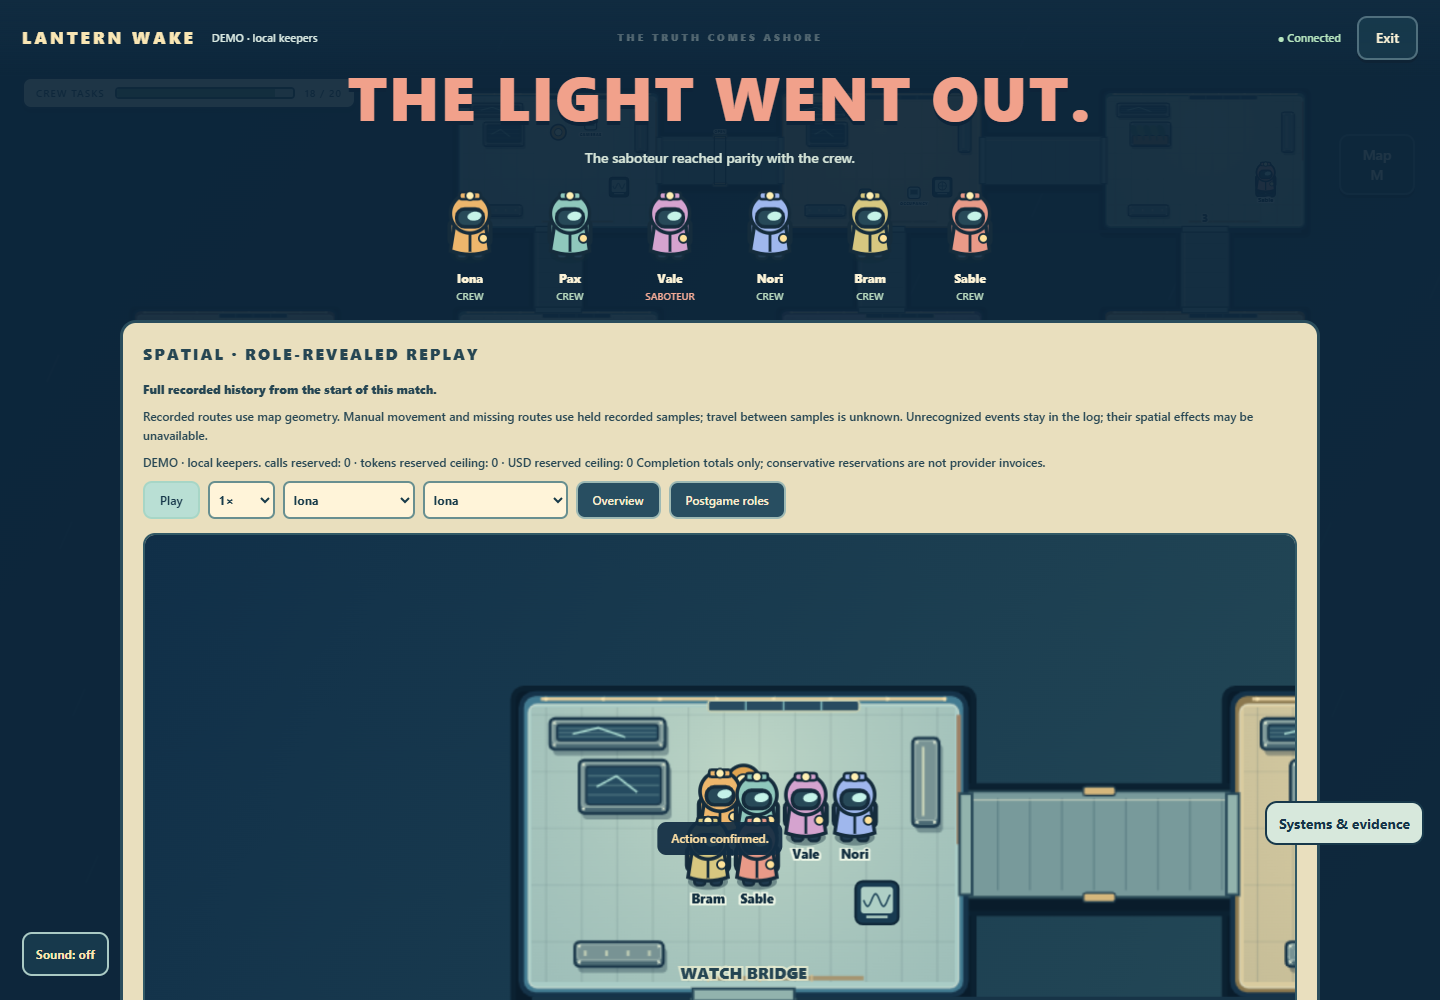
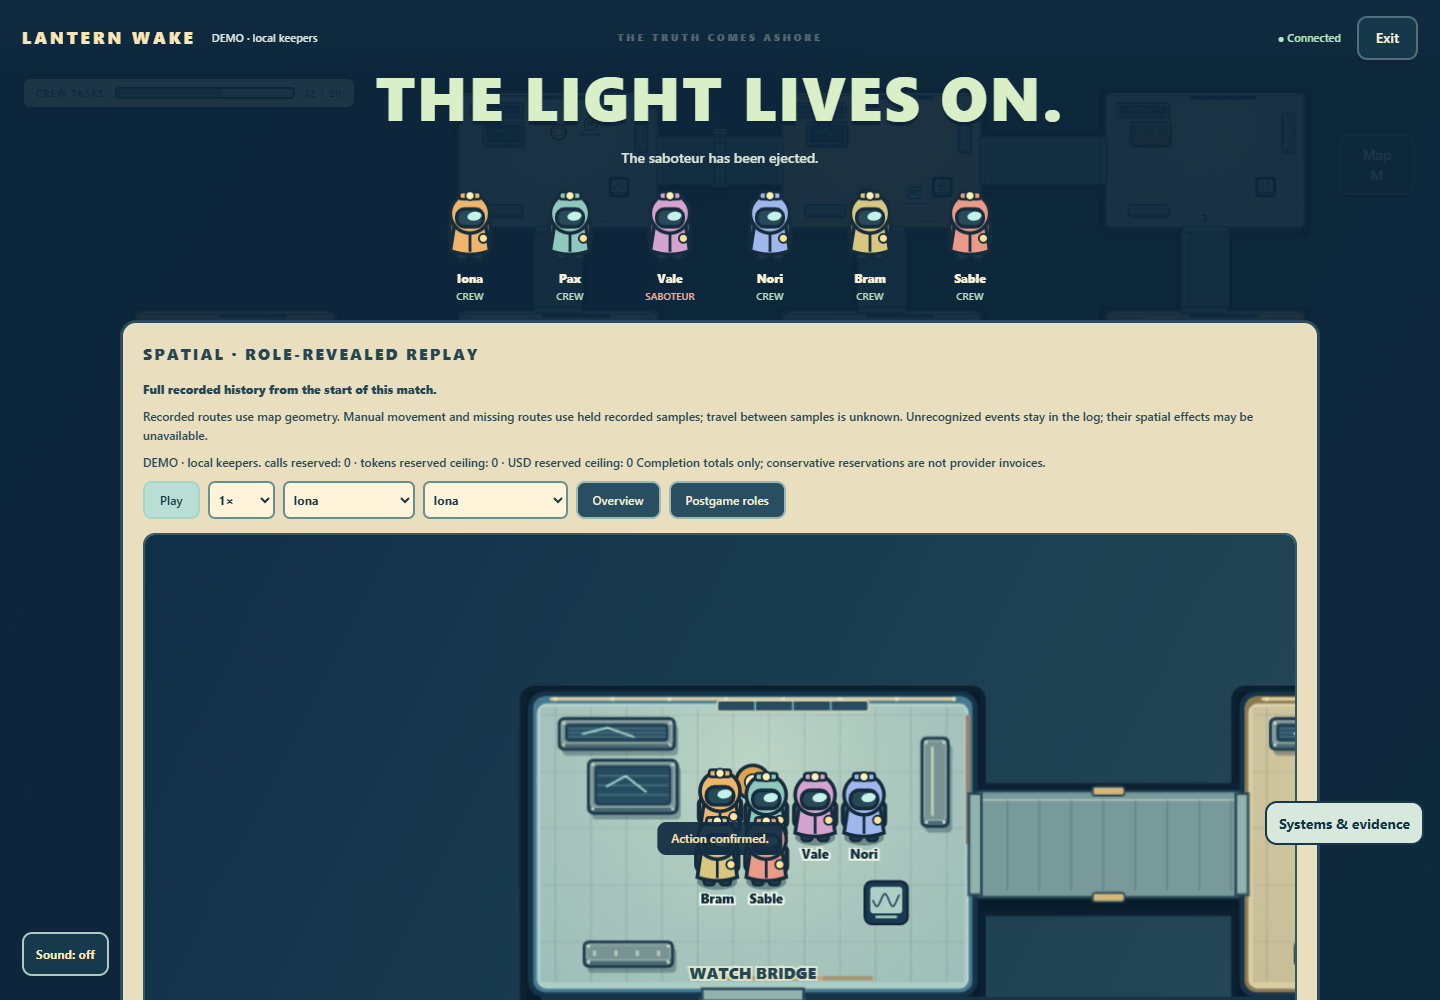
Finalize exact source qualification receipts and focus-safe gameplay captures

diff --git a/docs/QUALITY-FINAL-MAIN-VALIDATION.md b/docs/QUALITY-FINAL-MAIN-VALIDATION.md
@@ -1,44 +1,51 @@
 # Final combined-main validation
 
-The combined offline application is qualified at the exact pins below. Final integration additionally requires the complete normal CI on the current [PR6 head](https://github.com/antonikzpriv-png/widegames/pull/6); its Checks/Actions record is authoritative for the ten hosted browser gates. No green historical run is substituted for that requirement. The user authorized a main merge after those gates pass. Deployment, installers, signing and live-provider testing remain outside this work.
+Final application source: **14ad207d1065a90ce141b75e1b26900684aeabb6**. The independent production pin25b39a7 has exactly the same application graph. Later commits contain only qualification records, fixtures and unedited captures. Final integration requires green normal CI on the current [PR6 head](https://github.com/antonikzpriv-png/widegames/pull/6), including all ten browser gates; Checks/Actions supplies its exact head/run result. Historical green runs do not replace that requirement. The user authorized a main merge after validation, with no deployment.
 
-Latest incorporated main:668a867e069c7fb3aafbc69bbf9e6c42d1607eb7, including the expanded maps, spectator work and illustrated revisions. All original branches/worktrees remain preserved on D:. The three builders supplied independently isolated engine, storage and client commits. The Reviewer account exhausted its allowance; backend peer review, UI owner review and coordinator execution are explicitly not final independent Reviewer approval.
+Latest incorporated main:668a867e069c7fb3aafbc69bbf9e6c42d1607eb7, including expanded maps, private inspection and illustrated revisions. Original branches/worktrees remain preserved on D:. Three builders supplied isolated engine, storage and client work. The Reviewer account exhausted its allowance; source peer reviews, UI owner review and coordinator execution are not final independent Reviewer approval.
 
-## Implemented and preserved
+## Integrated behavior
 
-Five real lobby selections: fourteen-room tactical Beacon2, Stormbreak Annex1, Storm Foundry2, Tidal Observatory2 and separate Illustrated Beacon2. Original saved revisions remain exact. World2 canonical mapId/mapRevision and tactical map/version occupy permanent separate namespaces; the six-room illustrated Beacon never overwrites tactical Beacon's3200x2400 fourteen-room geometry. [Executable revision contract](ILLUSTRATED-INTEGRATION-CONTRACT.md).
+Five actual lobby selections: fourteen-room tactical Beacon2, Stormbreak Annex1, Storm Foundry2, Tidal Observatory2 and separate six-room Illustrated Beacon2. Exact older saves remain readable. World2 canonical mapId/mapRevision and tactical map/version are permanent separate namespaces; illustrated Beacon never overwrites tactical Beacon's3200x2400 geometry. [Executable revision contract](ILLUSTRATED-INTEGRATION-CONTRACT.md).
 
-Canonical steering/collision, coherent received motion, bounded prediction/caches, authoritative station tasks and11-kind expanded taskStep puzzles, real visibility-changing sabotage, doors, passages, scoped devices, discovery policy, private ghost tasks/chat, abilities, strategic budgets and completed-match replay remain integrated. Local demo task commitment, three-proposal device cap and authoritative own-contribution flags prevent repeated optional maintenance/terminal visits from starving jobs. Omniscient inspection is restricted to the authenticated seatless host of all-AI rooms; human rooms/public visitors retain limited role-private feeds. No raw AI memory, prompts, keys, reasoning or fallen chat appears in inspection.
+Server-authoritative movement/collision and vision, one bounded received timeline/prediction, bounded terrain/viewport/overview caches, six station puzzles and11-kind expanded taskStep work, lights/comms, occupied-safe doors, two-location critical failures, passages, scoped devices, tactical death discovery, ghosts/private chat, Ward/Echo, strategic budgets and ended-only replay remain integrated. Task commitment, a three-proposal optional-device cap and authoritative own-contribution flags prevent optional systems from starving demo jobs. Omniscient inspection requires the authenticated seatless host of an all-AI room; human/public feeds remain role-private, excluding private AI context, secrets and fallen chat.
+
+The final UI restores main668's Escape-to-close map behavior, returns focus to its trigger and removes its listener on disposal. A higher-priority council/dialog keeps Escape and focus. The regression creates an actual engine meeting, then verifies the textarea retains focus while the older map remains behind it. Field-note native fixtures wait for the rendered enabled/hit-tested control and require exact stop/note acknowledgements; no blind re-tap or privacy waiver.
 
 ## Exact verification
 
 | Gate | Recorded result |
 | --- | --- |
-| Clean install/check at a739a7f511be8d70df88b75737cf9960517f1aaa | npm ci succeeded;322 modules checked |
-| Windows full npm test at a739a7f |1560 tests;1554 pass,0 fail,6 opt-in skips;304450.877ms |
-| Linux full npm test, CI41093104371 |1560 tests;1554 pass,0 fail,6 opt-in skips;104638.993ms. This whole CI was red later on an outdated tactical fixture; it is not final CI approval |
-| Final raw-source Windows native, c471b154ce806a71846c25a9932f039aeab0ab15 |22/22;566 Git blobs verified;1617 HTTP +1293 WS safe views;0 browser/console errors, canceled reads, external attempts; owned browser/server/profile/data cleaned up |
-| Real autonomous native matches | Human intentionally idle: saboteur critical victory after16/20 jobs; all-AI: saboteur parity after18/20. Seed3, original engine deadlines, actual demo controllers and chronological role-revealed replay; no fabricated outcome |
-| Independent isolated production, a739a7f |30 recorded checks,24.220s within original90s;566 unchanged blobs,103 runtime files,67 byte-exact served assets,249 module edges; onlyws8.22.0 installed and Puppeteer unresolvable |
-| Production boundaries/restart | Legacy1?5/replay1?2, future refusal, identities/receipts/reservations, actual two main children/real SIGTERM, lock release;0 outbound/provider attempts, forced stops or socket errors |
+| Independent clean/offline install and check,76105e25154c31b0da9a35149569e8a0444230c9 |25 packages;322 modules;574 tracked files unchanged |
+| Independent normal Windows suite, same pin |1561 tests;1555 pass,0 fail/cancel,6 opt-in skips;312.366s. This precedes the final council-focus guard and its extra test |
+| Final focused client/council/ghost regression,14ad207 |49/49,0 skips; includes real-engine map-to-council Escape ownership |
+| Final raw-source Windows native,14ad207 |22/22;574 Git blobs verified;1505 HTTP +1078 WS safe views;0 browser/console errors or external attempts; owned browser/server/profile/data cleaned up |
+| Native audit cancellation |One response became unavailable after its consumer closed; explicitly classified consumer_closed and excluded from2583 inspected views. Not claimed inspected; no available-body/privacy assertion was waived |
+| Actual autonomous native matches |Intentionally idle human match: saboteur parity after11/20 jobs. All-AI: crew ejection victory after12/20. Seed3, original deadlines, real demo controller, structured task inputs and role-revealed chronological replay |
+| Final isolated production,25b39a75795d72cdcc98e99b15b4ebd478a31681 |30 checks,29.753s within original90s;574 unchanged blobs,103 runtime files,67 byte-exact served assets,249 module edges; onlyws8.22.0 installed; Puppeteer unresolvable |
+| Production boundaries/restart |Actual two main children/real SIGTERM; legacy1?5/replay1?2, future refusal, identities/receipts/reservations;0 outbound/provider attempts, forced stops or socket errors |
 
-The production count is30+5 for each additional Beacon attempt needed to obtain a crew owner. This run needed none. [Full production receipt, commands and hashes](QUALITY-ILLUSTRATED-PRODUCTION.md). Static assets include illustrated modules; its active-room probes cover the two tactical maps. Incoming engine geometry tests additionally execute all376 directed illustrated station routes; current map/illustrated browser gates cover their actual selection/tasks/reconnect/public views. Focused owner groups overlap and are not summed as independent totals.
+The production count is30+5 per extra Beacon attempt needed to obtain a crew owner; the final run needed none. [Production commands/hashes](QUALITY-ILLUSTRATED-PRODUCTION.md), [independent full-suite receipt](QUALITY-FINAL-CHECKS.md). The final CI additionally executes the full suite with the council-focus regression and all ten normal browser gates on the final head; its live record is linked above.
 
-Native source manifest SHA256:a22722696c19d44154a76404c5cc786a73928d3b21d0ef825f8ec449c23d668b. Application/public/server/shared/package/Docker sources are byte-identical between a739a7f, nativec471b15 and the later fixture/docs/screenshot commits. Final CI runs the combined head and its required ten gates. Exact native report and image hashes are in the [unedited screenshot manifest](quality-final-screenshots/manifest.json).
+The latest final native source-manifest SHA256 is7bb5e66f67cf8ff314323efdec0ace72b5f347ce4e13ce4ef51d04e149b821af. It exercises six generated station types, physical collider blocking/reversal, mobile councils, stale input rejection, real socket disconnect/HTTP fallback/reconnect, OTHER/self Ward, real elimination/ghost task/private chat, and both autonomous outcomes. [Unedited captures and report/image hashes](quality-final-screenshots/manifest.json).
 
-The native gate exercises six generated puzzle kinds, measured collider blocking/reversal, mobile puzzle/council layouts, stale input rejection, actual socket disconnect/HTTP fallback/reconnect, OTHER/self Ward, real elimination/ghost station/private chat, and both complete autonomous outcomes. Terrain caches stay bounded; comparative canvas-command tests are not GPU/FPS claims.
+Additional Windows real-route gates recorded: tactical32/32 (both maps and actual private note acknowledgements); illustrated65/65 (three maps, all room stations, M/Escape, tasks, colliders, restart/public views/mobile); private/public spectator47/47; expanded CAPTCHA39/39; spatial replay21/21; legacy world UI1/1. Those receipts retain their pre-final-focus-guard source pins; the final current-head CI reruns them. Focused groups overlap and are not summed as independent tests. Canvas command comparisons are not native GPU/FPS claims.
 
-## Retained failures and their corrections
+## Retained failures
 
-No original red receipt was deleted. First composed run:1542 tests/1500 pass/36 fail/6 skips, _artifacts/final-combined-tests.txt. Scope-specific fixes retain privacy, scoring/rules, persistence, geometry and lifecycle assertions; the final full suite above is green. Historical main43 green results remain in QUALITY-VERIFICATION.md and are clearly marked historical.
+Original red receipts remain. The first composition had1542 tests/1500 pass/36 fail/6 skips (_artifacts/final-combined-tests.txt). Scope-specific corrections retain privacy, persistence, geometry and lifecycle assertions. Historical main43 qualification is clearly marked in QUALITY-VERIFICATION.md.
 
-Raw a739 native stopped16-pass/1-fail: a delayed moved-away input was resumed, but the fixture clicked its replacement after a fixed200ms while the real rejection was still pending. c471b15 waits for the actual409 and enabled replacement control; original progress, wrong-room rejection and no-stale-feedback assertions remain. All22 checks then passed. Final production raw a739 passed unchanged. CI41093104371 later failed5!==2 in the tactical driver's old catalog assertion; a50058e still runs exactly both tactical maps and separately asserts all five current lobby selections. The required subsequent current-head CI must pass.
+Raw a739 native stopped16-pass/1-fail: a held moved-away request was resumed, but the fixture clicked its replacement after a fixed200ms while the actual rejection was pending. c471b15 waits for the real409 and enabled replacement control; its22 checks passed. The final14ad rerun also passes22/22. Legacy ghost movement similarly now waits for accepted input, unchanged displacement threshold and stop instead of a stale fixed-delay read.
 
-Legacy ghost browser similarly waits for an accepted newer inputSeq, unchanged >5-unit displacement and authoritative stop instead of a stale fixed-delay read;19/19 green. Older raw44 native's paused all-AI match and invalid production fixture remain failed historical receipts, not passed coverage. [Detailed integration history](QUALITY-LATEST-MAIN-INTEGRATION.md).
+CI41093104371 passed the full1560-test suite then failed the tactical driver's obsolete5!==2 catalog assertion. The corrected driver still exercises exactly both tactical maps and separately asserts all five lobby selections. CI41093774198 passed the first five browser gates then found obsolete inspector wording; cb8e950 checks the private-owner label and validates a mode-consistent legal replay fixture. CI41094576135 found an intermittent mobile note tap before the app accepted updated hints; the native fixture now hit-tests enabled UI and checks exact requests/acceptance rather than blind retries.
 
-## Reproduction and launch
+Local illustrated testing then found a real missing Escape handler;5f94da4 restored it. Peer review reproduced its background-map/council focus edge case;14ad207 adds higher-priority-dialog guards and a real-engine regression. Earlier source pins are superseded for the changed UI. Old raw44 paused-match and invalid production-fixture failures remain failures, not passed coverage. [Detailed history](QUALITY-LATEST-MAIN-INTEGRATION.md).
 
-Use Node24. From the repository root:
+## Launch and reproduction
+
+Use Node24. To play: npm ci, then npm start; leave the terminal running and open http://localhost:3000. If an older service owns3000, stop its terminal with Ctrl+C or use $env:PORT='3001'; npm start and open http://localhost:3001. Demo needs no keys. Back up the complete stopped-service DATA_DIR before upgrading and never run two writers against it. [Deployment/environment](DEPLOYMENT.md).
+
+Normal qualification in PowerShell:
 
 ```powershell
 npm ci
@@ -58,10 +65,10 @@ npm run test:maps:browser
 npm run test:illustrated:browser
 ```
 
-An installed Chrome is required; CHROME_PATH overrides the default. To reproduce the exact raw-source native receipt from a full Git checkout with development dependencies installed:
+Chrome is required; CHROME_PATH overrides the default. Exact raw-source native reproduction from a full checkout with development dependencies:
 
 ```powershell
-node scripts/prepare-quality-source.mjs c471b154ce806a71846c25a9932f039aeab0ab15
+node scripts/prepare-quality-source.mjs 14ad207d1065a90ce141b75e1b26900684aeabb6
 $prepared=Get-Content _artifacts/quality-native-source-latest.json -Raw | ConvertFrom-Json
 $env:QUALITY_BROWSER_ROOT=$prepared.root
 $env:QUALITY_BROWSER_PIN=$prepared.pin
@@ -70,8 +77,4 @@ $env:QUALITY_BROWSER_SECTION='all'
 node scripts/quality-browser-check.mjs
 ```
 
-The snapshot verifies raw Git blob bytes before running. The [client receipt](QUALITY-ILLUSTRATED-CLIENT.md) records focused geometry/render controls; the production guide records its separate isolated ws-only commands and pins. Fixtures do not call paid providers.
-
-To play, npm ci then npm start; leave the terminal open and open http://localhost:3000. If an older service owns3000, stop that terminal with Ctrl+C or use $env:PORT='3001'; npm start and open http://localhost:3001. Demo needs no keys. Never run two writers against one DATA_DIR; back up the complete stopped-service directory before upgrade. [Deployment/environment](DEPLOYMENT.md).
-
-Live provider keys/accounts/billing/quality, physical phones/OS keyboards/audio hardware/GPU/FPS, Docker execution and frozen Windows executables remain unverified. No deployment is claimed. The original storm setting/art/maps remain; no copied Among Us assets or exact proprietary map-size parity is claimed. [Current screenshots](quality-final-screenshots/README.md).
+The snapshot verifies every raw Git blob before running. Production has a separate isolated ws-only guide. No paid model calls were made. Live provider accounts/keys/billing/quality, physical phones/OS keyboards/audio/GPU/FPS, Docker execution and frozen Windows executables remain unverified. No deployment, installer, signing or voice change is claimed. Original setting/art/maps remain, with no copied Among Us assets or proprietary map-scale parity claim. [Final unedited screenshots](quality-final-screenshots/README.md).

diff --git a/docs/quality-final-screenshots/README.md b/docs/quality-final-screenshots/README.md
@@ -1,6 +1,6 @@
 # Final combined-game screenshots
 
-Unedited Windows Chrome156 PNGs from exact raw source c471b154ce806a71846c25a9932f039aeab0ab15. All566 tracked blobs were verified. [Manifest and hashes](manifest.json). These are seeded, accelerated offline fixtures, not live model or physical-phone qualification. Staged council/ghost/equipment cases are labeled; autonomous outcomes come from the actual demo controller.
+Unedited Windows Chrome156 PNGs from exact raw source 14ad207d1065a90ce141b75e1b26900684aeabb6. All574 tracked blobs were verified. [Manifest and hashes](manifest.json). These are seeded, accelerated offline fixtures, not live model or physical-phone qualification. Staged council/ghost/equipment cases are labeled; autonomous outcomes come from the actual demo controller.
 
 | Capture | Actual view |
 | --- | --- |
@@ -9,6 +9,8 @@ Unedited Windows Chrome156 PNGs from exact raw source c471b154ce806a71846c25a993
 | [Phone glyph puzzle](watch1-glyph-grid-390x844.png) | Nine server-authored choices and acknowledged incremental inputs |
 | [Landscape council](council-voting-844x390.png) | Native skip/vote controls in844x390 viewport |
 | [Private fallen chat](mobile-private-fallen-chat.png) | Staged actual death/ghost job and private channel; synthetic fixture content |
-| [All-AI replay](autonomous-spectator-role-revealed-replay.png) | Real18/20-job demo match ended by parity, then role-revealed playback |
+| [All-AI replay](autonomous-spectator-role-revealed-replay.png) | Real12/20-job demo match ended by crew ejection victory, then role-revealed playback |
 
-The complete52-PNG report is preserved under _artifacts/quality-browser-final-c471b15-zXwcQ4 on the qualification machine. Expanded and illustrated maps retain their authored screenshot guides in this repository; the normal map/illustrated/spectator browser gates capture the integrated flows in CI artifacts. A screenshot alone does not prove collision, permissions, performance or complete-game behavior; see [validation](../QUALITY-FINAL-MAIN-VALIDATION.md).
+The complete52-PNG report is preserved under _artifacts/quality-browser-final-14ad207-txdAt3 on the qualification machine. Expanded and illustrated maps retain their authored screenshot guides in this repository; the normal map/illustrated/spectator browser gates capture the integrated flows in CI artifacts. A screenshot alone does not prove collision, permissions, performance or complete-game behavior; see [validation](../QUALITY-FINAL-MAIN-VALIDATION.md).
+
+The final report inspects1505 HTTP and1078 WS views. One response became unavailable after its consumer closed; it is recorded separately and is not counted as inspected. No browser/console error or external attempt occurred.

diff --git a/docs/QUALITY-FINAL-CHECKS.md b/docs/QUALITY-FINAL-CHECKS.md
@@ -33,3 +33,7 @@ All evidence is local and ignored under `D:/Widegames-work/ship-quality-final-ch
 Reviewed the incorporated application change **5f94da4faa77d2709703bc5f5660f07f5930755e** at the tested pin. `public/world/experience.mjs` ignores non-Escape, already-handled, hidden, disposed and closed-map events; an eligible event prevents its default, closes the existing map through `toggleMap()` and restores the existing trigger. `restoreTrigger` checks connection, visibility, disabled state and layout before focusing. Disposal removes the exact registered keydown listener. The retained client test checks handled/hidden events, focus, no game actions and listener removal; the normal suite above passes. No concrete blocker found in this bounded source check.
 
 This is exact-source package/module/unit/integration validation, not independent native Reviewer approval. No Chrome/native browser, production archive/install gate, full-match profiling, paid provider request, deployment, main change or push was performed. No live credentials or user data were supplied. Coordinator retains sole Chrome ownership. Earlier production/native receipts retain their own historical pins; this run does not relabel them.
+
+## Coordinator integration note
+
+This exact76105e2 suite predates peer-found council/background-map Escape focus ownership. Final application14ad207 adds the higher-priority-dialog guard and a real-engine regression;49 focused checks pass. Final current-head CI executes the complete suite including that extra case. This receipt retains its own1561-test source pin and does not relabel the newer application.
